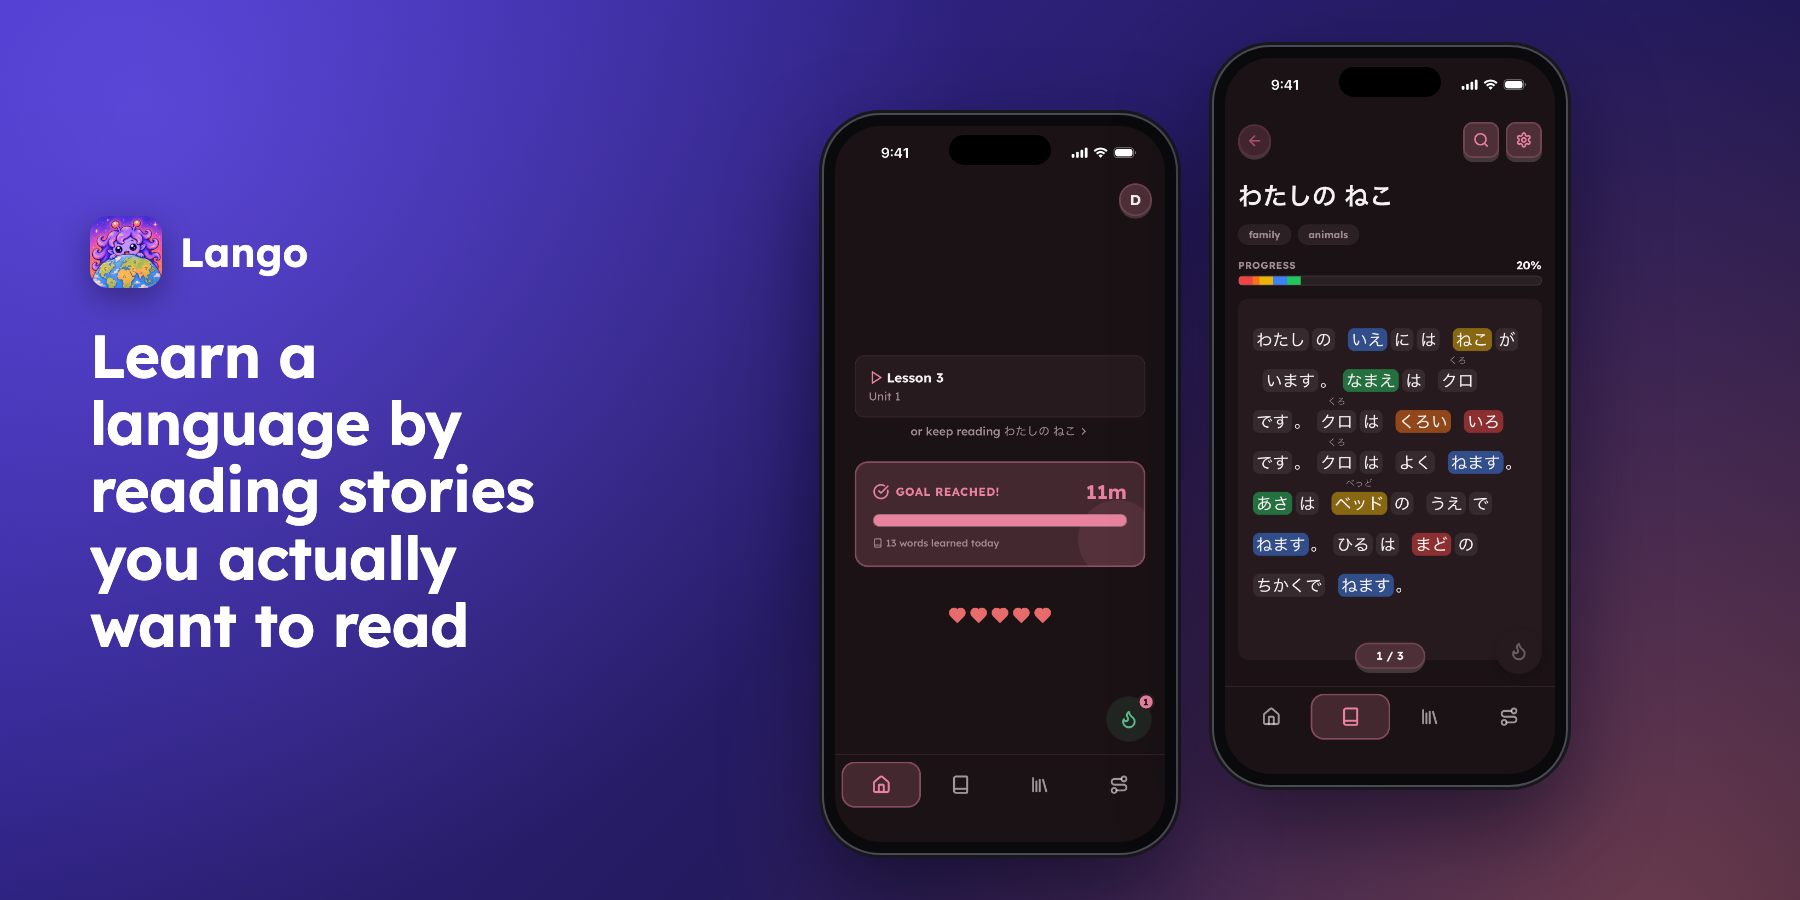
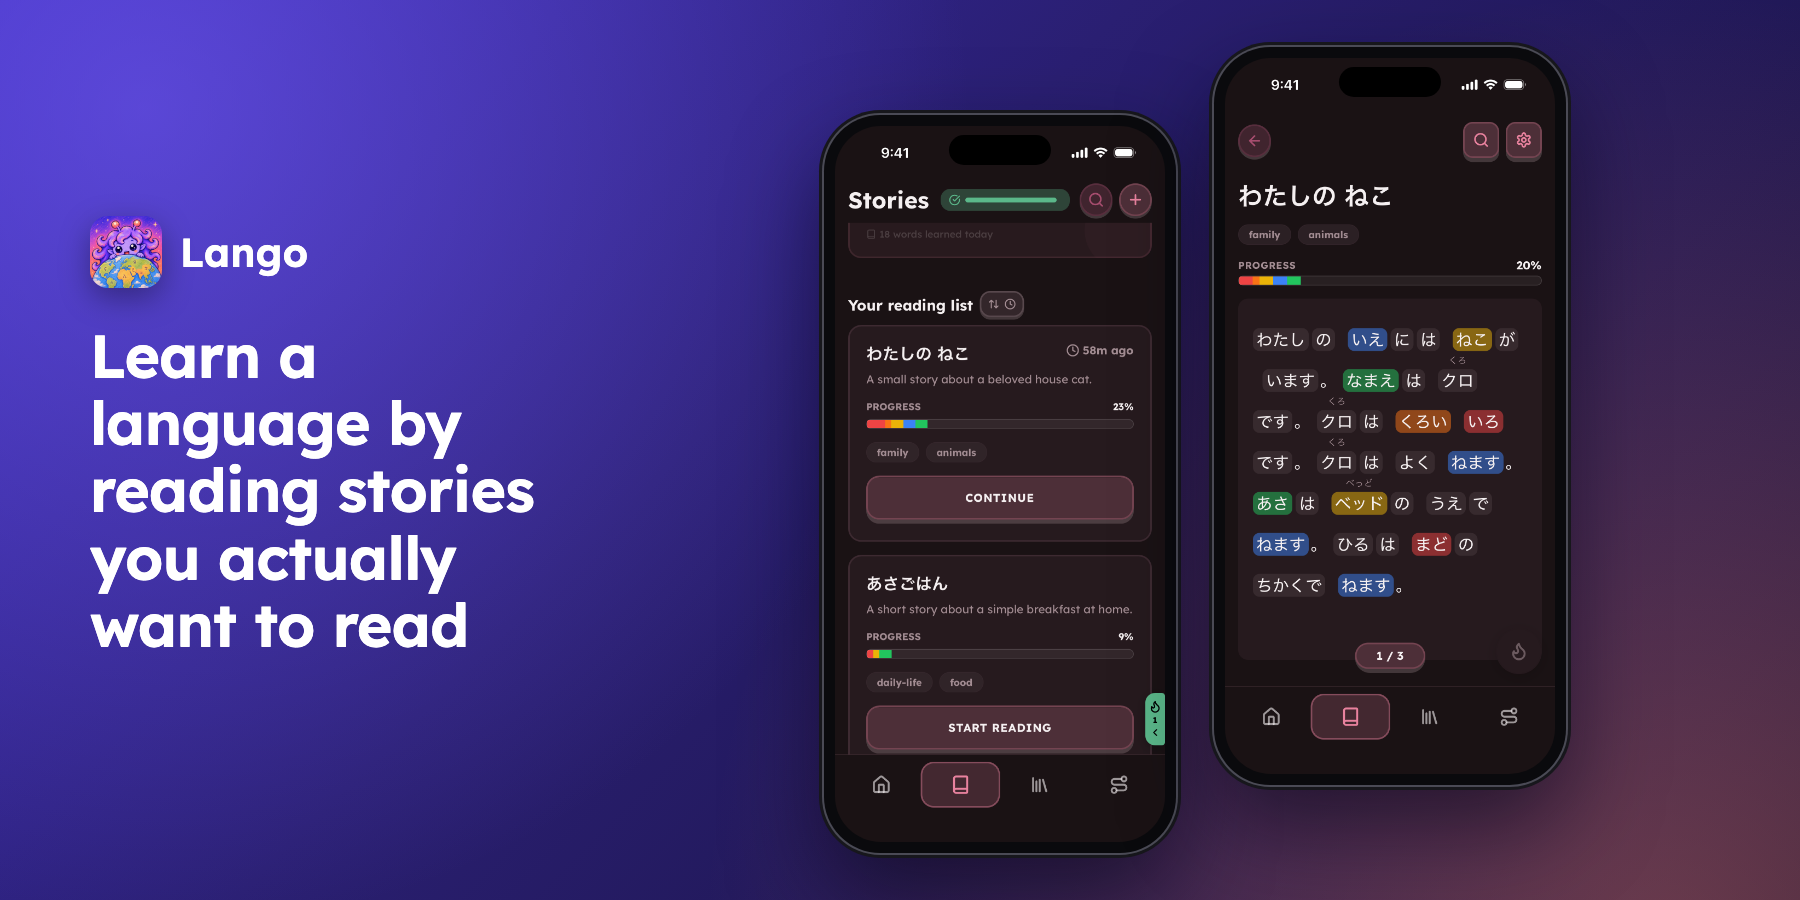
Replace the Lango Home screen in the showcase slides
The Home screen is still in progress, so the hero slide now pairs the
story library with the reader, and the languages slide shows the word
bank in the Arabic right-to-left interface instead of Arabic Home.

Changed region(s): [[0.4667, 0.3111, 0.6533, 0.9022], [0.4667, 0.1867, 0.6222, 0.28], [0.5911, 0.3733, 0.6222, 0.4044]]

diff --git a/lib/projects.ts b/lib/projects.ts
@@ -26,10 +26,10 @@ export const projects: Project[] = [
     detailedDescription: "Lango is Ahmed's own language-learning app for iOS, Android and iPad (React Native 0.86, Expo SDK 57, strict TypeScript). It is in pre-launch: not on the App Store or Google Play yet. It teaches through comprehensible input. Learners read stories where about 90% of the words are already in their word bank, tap unknown words to save them with a confidence level from 1 to 5, and follow a lesson path of 21 exercise types (match pairs, sentence building, listening, story cloze, character tracing and more) generated from their own saved words. Seven languages can be learned (English, German, Italian, Spanish, Japanese, Chinese, Korean), the UI is translated into six including Arabic right to left, and each learning language re-themes the app. The app is offline-first: SQLite with a pending-operations queue, incremental pulls with conflict detection, and realtime hints plus silent push for cross-device sync, which cut a cold sync from about 156 requests to about 29. The backend is Supabase (Postgres, Auth, Storage, Realtime, pg_cron) with 25 Deno Edge Functions. Gemini 2.5 Flash runs only behind Edge Functions, with structured JSON output, per-user quotas, usage metering and a circuit breaker; a golden-set eval harness measured how closely candidate models keep to the learner's vocabulary in all seven languages, and Gemini 2.5 Flash beat the cheaper models. A Python FastAPI service on Fly.io splits Japanese (SudachiPy), Chinese (jieba, pypinyin) and Korean (kiwipiepy) text into words and adds readings such as furigana and pinyin. Also: iPad layouts with a sidebar and a two-page reader, an animated Skia splash, Google and Apple sign-in, GDPR account deletion, 328 Jest spec files, Deno and pytest suites, 31 Maestro end-to-end flows and GitHub Actions CI. It grew from the prototype that won the Stakpak GenAI Hackathon in May 2025.",
     technologies: ["React Native", "Expo", "TypeScript", "Supabase", "SQLite", "Python", "FastAPI", "SudachiPy", "Google Gemini", "Fly.io"],
     images: [
-      { src: "/Lango/hero.png", alt: "Lango on iPhone: the home screen and a Japanese story in the reader" },
+      { src: "/Lango/hero.png", alt: "Lango on iPhone: the story library and a Japanese story in the reader" },
       { src: "/Lango/reader.png", alt: "Lango reader: tapping a Japanese word to save it, and the word bank with confidence levels" },
       { src: "/Lango/path.png", alt: "Lango lesson path, a multiple-choice exercise and the lesson recap" },
-      { src: "/Lango/languages.png", alt: "Lango's Japanese kana chart, a German story in the German theme, and the Arabic right-to-left interface" },
+      { src: "/Lango/languages.png", alt: "Lango's Japanese kana chart, a German story in the German theme, and the word bank in the Arabic right-to-left interface" },
       { src: "/Lango/ipad.png", alt: "Lango on iPad: the two-page story reader" },
     ],
     github: "#",
